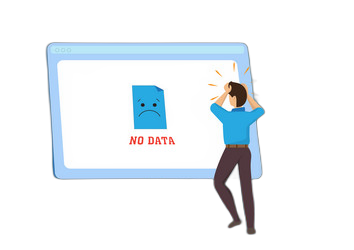
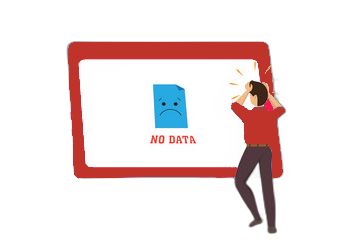
clothes_app

Changed region(s): [[0.1243, 0.14, 0.8079, 0.952], [0.3418, 0.336, 0.5593, 0.588], [0.5904, 0.28, 0.6215, 0.308]]

diff --git a/lib/users/fragments/home_fragment_screen.dart b/lib/users/fragments/home_fragment_screen.dart
@@ -613,11 +613,11 @@ class HomeFragmentScreen extends StatelessWidget {
               ),
             );
           } else {
-            return const Center(
-              child: Text(
-                "Empty, No Data",
-                style: TextStyle(color: Colors.white),
-              ),
+            return Center(
+                child: Container(
+                    width: Dimensions.height260,
+                    height:Dimensions.height260,
+                    child: Image(image: AssetImage("assets/no_data.png")))
             );
           }
         });
@@ -1016,8 +1016,11 @@ class HomeFragmentScreen extends StatelessWidget {
                   );
                 });
           } else {
-            return const Center(
-              child: Text("Empty no data"),
+            return Center(
+                child: Container(
+                    width: Dimensions.height260,
+                    height:Dimensions.height260,
+                    child: Image(image: AssetImage("assets/no_data.png")))
             );
           }
         });

diff --git a/lib/users/fragments/order_fragment_screen.dart b/lib/users/fragments/order_fragment_screen.dart
@@ -246,10 +246,12 @@ class OrderFragmentScreen extends StatelessWidget {
             {
               return Column(
              children: [
-                Center(child: Padding(
-                  padding:  EdgeInsets.all(Dimensions.height10),
-                  child: Text("Order Empty",style: TextStyle(color: Colors.white),),
-                )),
+               Center(
+              child: Container(
+              width: Dimensions.height260,
+                  height:Dimensions.height260,
+                  child: Image(image: AssetImage("assets/no_data.png")))
+          )
              ],
               );
             }

diff --git a/lib/users/fragments/favorites_fragment_screen.dart b/lib/users/fragments/favorites_fragment_screen.dart
@@ -254,8 +254,11 @@ favoriteListItemDesignWidget(context) {
                 );
               });
         } else {
-          return const Center(
-            child:Image(image: AssetImage("assets/no_data.png"))
+          return Center(
+            child: Container(
+                width: Dimensions.height260,
+                height:Dimensions.height260,
+                child: Image(image: AssetImage("assets/no_data.png")))
           );
         }
       }

diff --git a/lib/utils/dimensions.dart b/lib/utils/dimensions.dart
@@ -50,6 +50,7 @@ class Dimensions {
   static double height160 = screenHeight/4.27;
   static double height185 = screenHeight/3.69;
   static double height200 = screenHeight/3.41;
+  static double height250 = screenHeight/2.73;
   static double height260 = screenHeight/2.62;
   static double height275 = screenHeight/2.48;
 //dynamic width padding and margin
